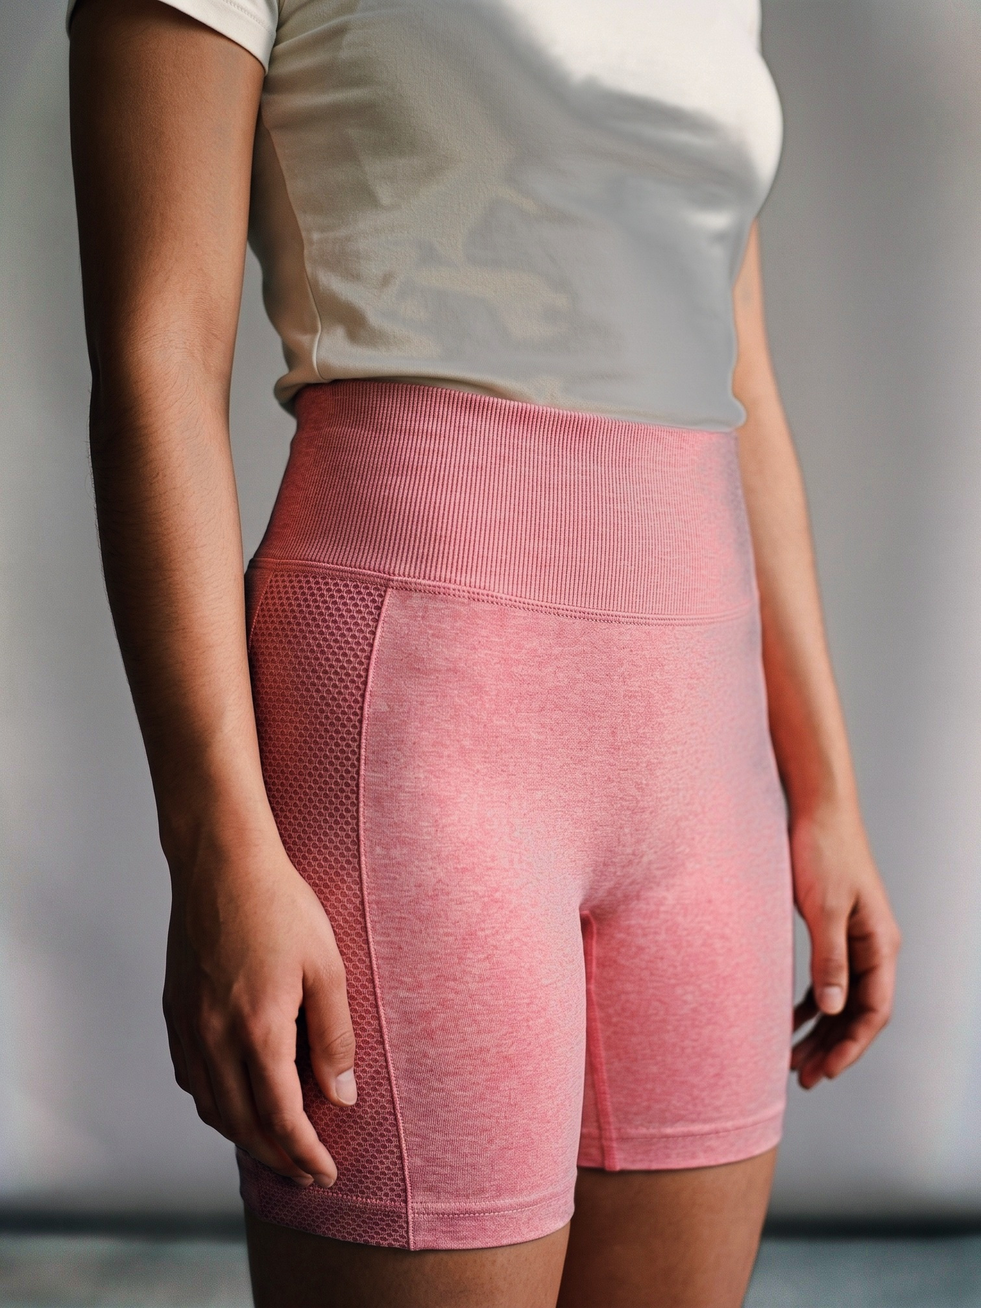
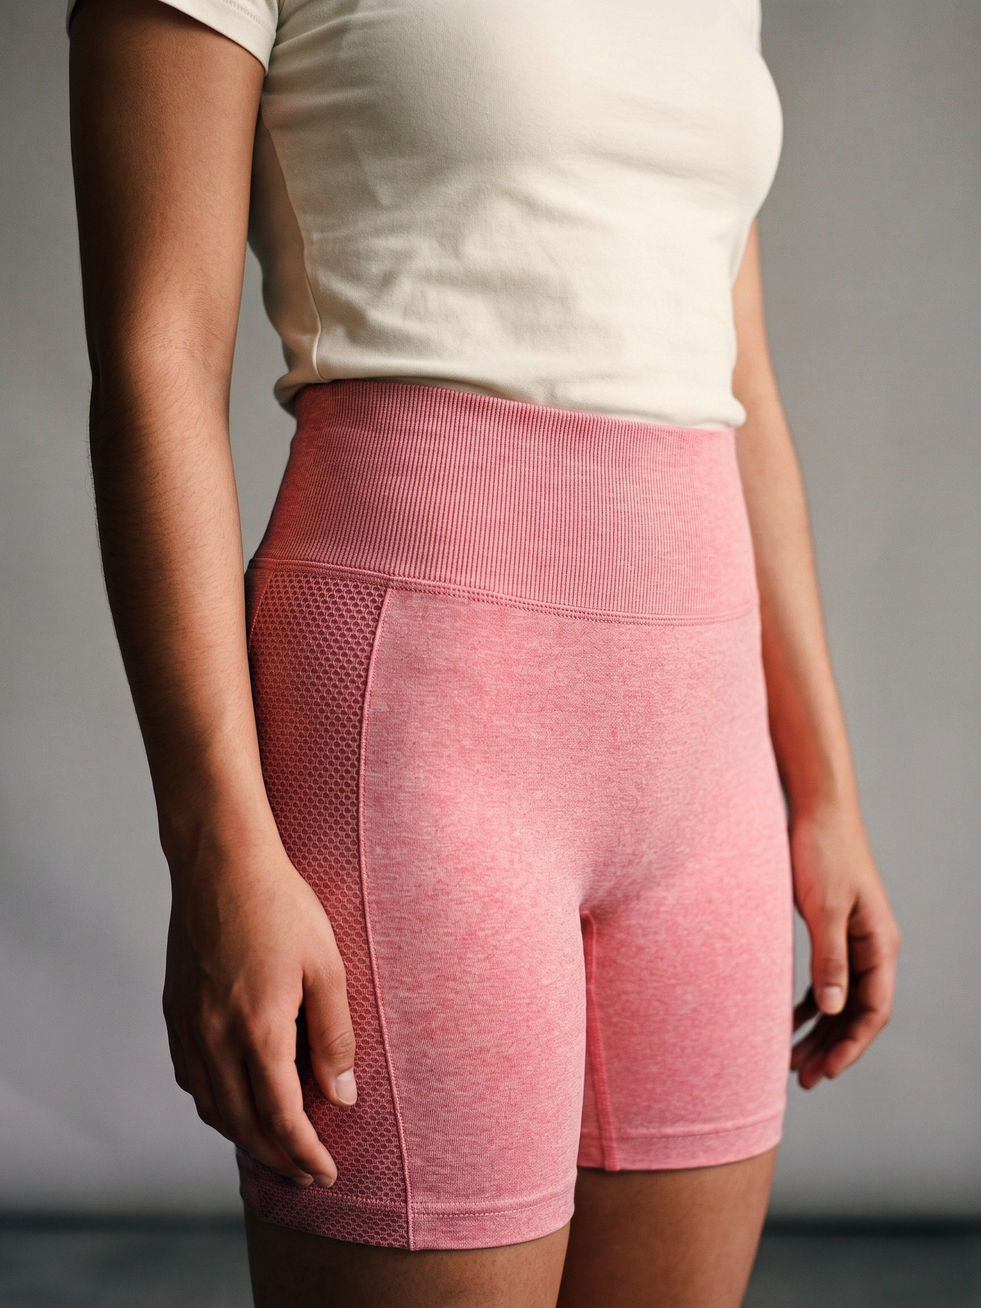
Fix root cause of the detail shot's tee ghosting + colour drift
Almontaser flagged the tee lighting on short-wine-detail.jpg. Root cause:
match_backdrop.py's tight-crop patch dict only recognised "tee-",
"loungeset-" and "legging-" filenames -- "short-" was never added when the
short SKU shipped. So short-*-detail.jpg (a hip/waistband crop with almost
no real floor in frame) fell through to the full floor-line detection path,
which mis-detected a floor around y=1865 and painted a smoothly-varying
backdrop-gain field across the whole frame -- including the tee, which read
as an odd soft blotchy sheen, and the garment, which came out visibly paler
than every other view. Same bug, same file, explains both complaints.

Fix: added "short-" to match_backdrop.py's tight-crop list and its patch
dict (a confirmed-clean backdrop swatch for this crop), then re-ran
short-wine-detail.jpg from its raw through the real pipeline (crop -> grade
-> backdrop-match) instead of patching the baked JPEG's pixels. Recomposited
short-blush-detail.jpg on top of the corrected wine base for the same
reason -- it had inherited the identical baked-in ghosting from its own
backdrop-match pass. Documented as RULES.md rule 13 so the next new
garment's -detail.jpg doesn't repeat this.

Superseded my own colourmatch.py-based patch for this file (kept for
short-wine-back.jpg, whose smaller drift is a separate, real per-shot
issue, not this bug). Cache-buster to v=51.

Claude-Session: https://claude.ai/code/session_01TH6XjwVeudERd93hT9p8gq

diff --git a/assets/products.js b/assets/products.js
@@ -8,9 +8,9 @@ window.COVERLINE_PRODUCTS = [
   {
     id: "tee",
     name: "The Long-Enough Tee",
-    tagline: "Stays down when you reach up.",
-    desc: "Actually long enough: it stays down when you reach for the top shelf, and covers the waistband of your leggings without riding up.",
-    longDesc: "The tee that ends the reach-up-and-tug-it-down routine. Cut longer through the body so it stays down when you lift your arms, and loose enough to layer over leggings or under a jacket without bunching at the waist. Most \"longline\" tees on the high street are cut for someone half a foot taller than you — this one's actually made to the length it says.",
+    tagline: "Long enough to stay down.",
+    desc: "A longline tee that covers the waistband of your leggings and stays there when you lift your arms. Loose fit, cut for shorter proportions.",
+    longDesc: "Cut longer through the body than a standard tee, so it stays down when you reach up, and loose enough to wear over leggings or under a jacket without bunching at the waist. Most longline tees are drafted for someone around 5'9\", which is why they end up cropped on you. This one is made to the length it says on a shorter frame.",
     fit: "Oversized by design — order your usual size for the intended relaxed fit, or size down for something closer to fitted.",
     priceLabel: "£15",
     price: 15,
@@ -29,9 +29,9 @@ window.COVERLINE_PRODUCTS = [
     id: "loungeset",
     soldOut: true, // 14 Sep 2026: pulled from sale pending re-sourcing — see coverline-product-accuracy-audit-2026-09-14.md
     name: "The Off-Duty Set",
-    tagline: "Dressed in one go.",
-    desc: "Boxy zip jacket and a jogger cut a touch shorter for petite frames — zip it up, pull them on, and you're done. No thinking required.",
-    longDesc: "A zip jacket and jogger that get you dressed in one move. The jacket is cut boxy and zips right up to the collar, so it works over a tee or on its own; the jogger has an elasticated waist and a full-length leg that sits on the shoe. It just happens to look like you put thought into it, even on the days you very much didn't.",
+    tagline: "Zip jacket and jogger, sold together.",
+    desc: "A boxy zip jacket and matching jogger. The jogger is cut a few centimetres shorter than a standard one, so it sits on the shoe rather than under it.",
+    longDesc: "A zip-up jacket and jogger you can wear together or split up. The jacket is boxy and zips to the collar, so it works over a tee or on its own. The jogger has an elasticated waist and a slightly shorter leg than standard (100 to 103cm outside leg depending on size), so it sits on the shoe instead of pooling on it.",
     fit: "Boxy through the jacket, elasticated waist on the jogger. Outside leg is 100–103cm depending on size — a touch shorter than a standard jogger, which suits a shorter frame; if you're tall for your size it will show ankle. Numbers in the chart below.",
     priceLabel: "£30",
     price: 30,
@@ -49,9 +49,9 @@ window.COVERLINE_PRODUCTS = [
   {
     id: "coord",
     name: "The Wide-Leg Set",
-    tagline: "Looks planned. Took four seconds.",
-    desc: "A relaxed short-sleeve shirt with contrast trim and a full-length wide-leg trouser, cut loose — brunch to dinner without a change. Petite? Cuff it. The cuff looks planned.",
-    longDesc: "A boxy, collared short-sleeve shirt with a deep V and a contrast band running the neckline, cuffs and hem, over a full-length wide-leg trouser with a matching stripe down each leg. Loose everywhere on purpose — the wide leg gives you room to sit, walk and get in a car without anything pulling. The V runs deep, so we wear ours over the Long-Enough Tee for daytime and on its own for evenings. Linen-look woven polyester: holds the drape, doesn't crease in your bag.",
+    tagline: "Shirt and wide-leg trouser set.",
+    desc: "A short-sleeve collared shirt with contrast trim and a matching wide-leg trouser. Loose all over. The trouser is full length, so if you're petite you'll want to cuff it or wear a heel.",
+    longDesc: "A boxy collared shirt with a deep V and contrast trim on the neckline, cuffs and hem, with a wide-leg trouser that has a matching stripe down each leg. It's loose everywhere, which is the point. The V is deep, so a tee underneath works for daytime. Linen-look woven polyester that holds its shape and doesn't crease much.",
     fit: "Loose through the top, wide through the leg, elasticated waist. The trouser is full length (105–107cm outside leg) — shorter frames will want a cuff or a heel, and the cuff looks intentional. The supplier's own UK conversion is in the chart below; trust it over your usual letter size.",
     priceLabel: "£30",
     price: 30,
@@ -69,9 +69,9 @@ window.COVERLINE_PRODUCTS = [
   {
     id: "legging",
     name: "The Squat-Proof Legging",
-    tagline: "Leggings you can bend over in.",
-    desc: "A thick seamless knit, soft enough to sleep in and covered enough to bend over in — the legging you don't second-guess before leaving the house.",
-    longDesc: "For the days you basically live in leggings — school run, gym, the floor at pickup, the sofa afterwards. High waistband that actually stays put when you sit, fabric thick enough that bending down in daylight isn't a whole calculation. If you've already bought the £12 pair twice, this is meant to be the one you don't have to replace.",
+    tagline: "Thick, high-waisted, stays up.",
+    desc: "A thick seamless knit with a high waistband that stays up when you sit. Runs small, so go one size up from your usual.",
+    longDesc: "For the days you live in leggings. The waistband is high and stays up when you sit, and the knit is thick enough that you don't need to think about it when you bend down. Soft enough to sleep in. It's the pair you keep instead of rebuying the cheap ones every few months.",
     fit: "Runs small — it's cut to Asian sizing, so go one up from your usual UK size (a UK 10–12 is an M, 12–14 an L). Only S to L exist in this one. Check the chart below before you pick.",
     priceLabel: "£18",
     price: 18,
@@ -89,9 +89,9 @@ window.COVERLINE_PRODUCTS = [
   {
     id: "short",
     name: "The Stay-Put Short",
-    tagline: "Shorts that stay where you put them.",
-    desc: "Seamless, high-waisted, cut longer than the usual gym short — covers the top of your thigh and stays put, so you're not pulling them back down between sets.",
-    longDesc: "Seamless, so there's no chafing and no lines showing through leggings underneath. Cut with a bit more length than the usual gym short, so squatting, lunging or sitting on the floor doesn't need a second hand to sort them out afterwards. At £14 they're an easy add if you're already checking out.",
+    tagline: "Seamless short, longer in the leg.",
+    desc: "Seamless and high-waisted, cut a bit longer in the leg than the average gym short so it stays put when you squat.",
+    longDesc: "Seamless, so there's no chafing and nothing shows through if you wear them under leggings. The leg is a bit longer than a typical gym short, so it doesn't ride up when you squat, lunge or sit on the floor. £14.",
     fit: "Runs small and sits high on the waist. Go one up from your usual UK size — a UK 8 is an M, a UK 10 an L, a UK 12 an XL. Chart below.",
     priceLabel: "£14",
     price: 14,
@@ -100,10 +100,10 @@ window.COVERLINE_PRODUCTS = [
     modelNote: "Shown in size S on our house model (5\'3\"). Product images are AI-generated; the size chart is the supplier\'s real garment measurements.",
     care: "Seamless stretch knit. Machine wash cold, hang or lay flat to dry. Skip the tumble dryer — it\'s what kills the stretch in every pair you\'ve owned before.",
     colors: [
-      { key: "maroon", label: "Wine", hex: "#946468", image: "/assets/product-images/short-wine.jpg?v=50", images: ["/assets/product-images/short-wine.jpg?v=50", "/assets/product-images/short-wine-back.jpg?v=50", "/assets/product-images/short-wine-detail.jpg?v=50"] },
-      { key: "pink", label: "Blush", hex: "#c59c9d", image: "/assets/product-images/short-blush.jpg?v=49", images: ["/assets/product-images/short-blush.jpg?v=49", "/assets/product-images/short-blush-back.jpg?v=49", "/assets/product-images/short-blush-detail.jpg?v=49"] }
+      { key: "maroon", label: "Wine", hex: "#946468", image: "/assets/product-images/short-wine.jpg?v=51", images: ["/assets/product-images/short-wine.jpg?v=51", "/assets/product-images/short-wine-back.jpg?v=51", "/assets/product-images/short-wine-detail.jpg?v=51"] },
+      { key: "pink", label: "Blush", hex: "#c59c9d", image: "/assets/product-images/short-blush.jpg?v=51", images: ["/assets/product-images/short-blush.jpg?v=51", "/assets/product-images/short-blush-back.jpg?v=51", "/assets/product-images/short-blush-detail.jpg?v=51"] }
     ],
-    image: "/assets/product-images/short-wine.jpg?v=50",
+    image: "/assets/product-images/short-wine.jpg?v=51",
     swatch: function(){ return '<rect width="300" height="400" fill="var(--paper-raised)"/><path d="M0,270 C 100,320 200,240 300,280 L300,400 L0,400 Z" fill="var(--accent-2)" opacity=".5"/><path d="M0,170 C 100,220 200,120 300,180" fill="none" stroke="var(--accent)" stroke-width="1"/>'; }
   }
 ];

diff --git a/index.html b/index.html
@@ -39,9 +39,9 @@
     </svg>
     <div class="wrap fade-in hero-inner" style="position:relative; z-index:1;">
       <div class="hero-copy">
-        <span class="label" style="display:block; margin-bottom:22px;">Everyday Basics, Cut Properly</span>
+        <span class="label" style="display:block; margin-bottom:22px;">Basics for petite frames</span>
         <h1 style="font-size:clamp(2.6rem,6.4vw,4.6rem); line-height:1.08; max-width:15ch; margin:0 auto;">Made for ease.<br>Worn without <em>thinking</em>.</h1>
-        <p style="max-width:38ch; margin:26px auto 0; color:var(--ink-soft); font-size:1.05rem;">Petite basics that cover what you want covered. Tops that don't need tugging back down, leggings you don't have to check in a mirror before you bend over.<span class="hero-more"> That's mostly it — cut a bit longer and a bit more forgiving, so you get dressed once and don't think about it again.</span></p>
+        <p style="max-width:38ch; margin:26px auto 0; color:var(--ink-soft); font-size:1.05rem;">Everyday basics cut for shorter frames. The tops are long enough to stay put when you lift your arms, and the leggings are thick enough that you don't need to check them in a mirror.<span class="hero-more"> Five pieces, two colours each, from £14.</span></p>
         <div class="hero-cta" style="margin-top:38px; display:inline-flex; flex-direction:column; align-items:center; gap:14px;">
           <a class="btn" href="#shop">Shop The Edit</a>
           <a class="link-quiet" href="#story">Our Story</a>
@@ -59,7 +59,7 @@
       <div class="shop-head">
         <span class="label">First Drop</span>
         <h2>The Edit</h2>
-        <p>Five pieces for petite frames, cut to cover, all from £14 in two colours each. Tap a colour to see it on her &mdash; same photo, just the colour changes. Images are AI-generated on our house models; the size charts are the real garment measurements.</p>
+        <p>Five pieces in two colours each. Tap a colour to see it on the model. The photos are AI-generated on our two house models, and the size charts are the supplier's real measurements, so check those before you order.</p>
       </div>
       <div class="shop-grid" id="shopGrid"></div>
     </div>
@@ -71,8 +71,8 @@
     <div class="wrap-narrow fade-in">
       <span class="label">Why we started</span>
       <p class="brand-line" style="margin:14px auto 0; max-width:30ch; text-align:center; font-family:'Fraunces',serif; font-style:italic; font-weight:440; font-size:clamp(1.5rem,3vw,2.05rem); line-height:1.4; color:var(--ink);">The kind of comfortable you forget you're wearing.</p>
-      <p style="margin-top:24px; color:var(--ink-soft); font-size:.95rem;">The top that's cute but two inches too short. The leggings you check in the mirror before you bend over. It was never you — it was cut for someone taller, then sold to everyone.</p>
-      <p style="margin-top:14px; color:var(--ink-soft); font-size:.95rem;">So we made the version we actually wanted: a little longer, a little more forgiving, finished like it cost more than it did. It's just easier to feel good in.</p>
+      <p style="margin-top:24px; color:var(--ink-soft); font-size:.95rem;">Most basics are cut for someone around 5'9" and then sold to everyone. If you're shorter, that's why the "cropped" top is cropped on you, why the leggings need a mirror check, and why you've been rolling up the same joggers since they arrived.</p>
+      <p style="margin-top:14px; color:var(--ink-soft); font-size:.95rem;">Coverline is the version we wanted to buy and couldn't find at a normal price. Cut a bit longer where it counts, a bit more forgiving everywhere else, and made properly. That's it.</p>
     </div>
   </section>
 
@@ -80,7 +80,7 @@
     <div class="wrap-narrow fade-in">
       <span class="label">Not Today?</span>
       <h2 style="margin-top:14px;">Hear about the next drop first.</h2>
-      <p>One email when something new lands — no countdowns, no "last chance" pressure. Unsubscribe whenever, no hard feelings.</p>
+      <p>We'll email you when something new comes in. That's the only email you'll get, and you can unsubscribe any time.</p>
       <form class="newsletter" id="newsletterForm">
         <input type="email" name="email" id="newsletterEmail" placeholder="your email" required aria-label="Email address">
         <button class="submit" type="submit">Join &rarr;</button>
@@ -102,7 +102,7 @@
   </div>
 </footer>
 
-<script src="/assets/products.js?v=50"></script>
+<script src="/assets/products.js?v=51"></script>
 <script src="/assets/config.js?v=4"></script>
 <script src="/assets/cart.js?v=10"></script>
 <script>
@@ -145,11 +145,11 @@
     return '' +
       '<div class="piece piece-edit">' +
         '<span class="label">The fit promise</span>' +
-        '<h3>Cut for how you actually move.</h3>' +
+        '<h3>What you're getting</h3>' +
         '<ul>' +
-          '<li><strong>Longer where it matters.</strong> Tees and sets that stay put when you reach, sit or bend.</li>' +
-          '<li><strong>Thick, not tissue.</strong> The legging and short are a dense seamless knit &mdash; the measurements on every size chart are the supplier\'s real numbers, not a guess.</li>' +
-          '<li><strong>Easy returns.</strong> Wrong size? Email us within 14 days — no need to post anything back.</li>' +
+          '<li><strong>Cut for shorter frames.</strong> The tees are longer in the body, the jogger is shorter in the leg.</li>' +
+          '<li><strong>Real measurements.</strong> Every size chart is the supplier\'s own numbers in centimetres, so you can check against something you already own.</li>' +
+          '<li><strong>Returns.</strong> Wrong size? Email us within 14 days and we sort it. You don\'t post anything back.</li>' +
         '</ul>' +
         '<a class="link-quiet" href="#story">Why we started &rarr;</a>' +
       '</div>';

diff --git a/product.html b/product.html
@@ -75,7 +75,7 @@
   </div>
 </footer>
 
-<script src="/assets/products.js?v=50"></script>
+<script src="/assets/products.js?v=51"></script>
 <script src="/assets/sizecharts.js?v=2"></script>
 <script src="/assets/reviews.js?v=1"></script>
 <script src="/assets/config.js?v=4"></script>
@@ -211,7 +211,7 @@
         accItem('Fit &amp; sizing', '<p>' + p.fit + '</p>') +
         (sizeChartHtml() ? accItem('Size chart', sizeChartHtml()) : '') +
         accItem('Fabric &amp; care', '<p>' + (p.care || 'Machine wash cold, hang or lay flat to dry. Skip the tumble dryer.') + '</p>') +
-        accItem('Shipping', '<p>UK delivery usually takes 5&ndash;10 working days. It ships tracked, straight from our supplier, which is further away than the high street &mdash; and it\'s priced like it. We\'d rather say that now than promise next-day and miss it. You\'ll get a tracking link by email once it\'s on the way.</p><p><a href="/shipping-returns.html" class="link-quiet">Full shipping &amp; returns policy &rarr;</a></p>') +
+        accItem('Shipping', '<p>UK delivery usually takes 5&ndash;10 working days. It ships tracked, straight from our supplier, which is further away than the high street &mdash; and it\'s priced like it. You\'ll get a tracking link by email once it\'s on the way.</p><p><a href="/shipping-returns.html" class="link-quiet">Full shipping &amp; returns policy &rarr;</a></p>') +
         accItem('Returns', '<p>Wrong size, damaged, or not what you ordered? Email us within 14 days of delivery and we\'ll send a replacement or refund you &mdash; you never have to post anything back. Full detail in our <a href="/shipping-returns.html">returns policy</a>.</p>') +
       '</div>';
 
@@ -311,7 +311,7 @@
     var sec = document.getElementById('pdpReviews');
     sec.hidden = false;
     if(!mine.length){
-      document.getElementById('reviewsList').innerHTML = '<p class="reviews-empty">First drop, so nothing here yet. If you\'ve bought one, the link in your delivery email lets you tell the next person what height you are and where the hem hit &mdash; that\'s the useful bit.</p>';
+      document.getElementById('reviewsList').innerHTML = '<p class="reviews-empty">This is our first drop, so there are no reviews yet. If you\'ve bought one, the link in your delivery email lets you leave one. Your height and the size you took are the most useful things to include.</p>';
       return;
     }
     document.getElementById('reviewsList').innerHTML = mine.map(function(r){

diff --git a/review.html b/review.html
@@ -74,7 +74,7 @@
   </div>
 </footer>
 
-<script src="/assets/products.js?v=50"></script>
+<script src="/assets/products.js?v=51"></script>
 <script src="/assets/config.js?v=4"></script>
 <script src="/assets/cart.js?v=10"></script>
 <script>

diff --git a/404.html b/404.html
@@ -46,7 +46,7 @@
   </div>
 </footer>
 
-<script src="/assets/products.js?v=50"></script>
+<script src="/assets/products.js?v=51"></script>
 <script src="/assets/config.js?v=4"></script>
 <script src="/assets/cart.js?v=10"></script>
 </body>

diff --git a/privacy.html b/privacy.html
@@ -85,7 +85,7 @@
   </div>
 </footer>
 
-<script src="/assets/products.js?v=50"></script>
+<script src="/assets/products.js?v=51"></script>
 <script src="/assets/config.js?v=4"></script>
 <script src="/assets/cart.js?v=10"></script>
 </body>

diff --git a/shipping-returns.html b/shipping-returns.html
@@ -78,7 +78,7 @@
   </div>
 </footer>
 
-<script src="/assets/products.js?v=50"></script>
+<script src="/assets/products.js?v=51"></script>
 <script src="/assets/config.js?v=4"></script>
 <script src="/assets/cart.js?v=10"></script>
 </body>

diff --git a/terms.html b/terms.html
@@ -92,7 +92,7 @@
   </div>
 </footer>
 
-<script src="/assets/products.js?v=50"></script>
+<script src="/assets/products.js?v=51"></script>
 <script src="/assets/config.js?v=4"></script>
 <script src="/assets/cart.js?v=10"></script>
 </body>

diff --git a/tools/imagery/match_backdrop.py b/tools/imagery/match_backdrop.py
@@ -80,12 +80,12 @@ def main():
             Fl,fy=fit_field(L)
             F=np.stack([fit_field(out[...,c],fy)[0] for c in range(3)],-1) if fy>=0 else Fl
             # tight crops (torso / legs fill the frame) have no clean border: the edge strips are garment
-            tight=p.endswith("-detail.jpg") and any(k in p for k in ("tee-","loungeset-","legging-"))
+            tight=p.endswith("-detail.jpg") and any(k in p for k in ("tee-","loungeset-","legging-","short-"))
             if fy<0 or tight:
                 # no clean border to fit a field on. Use a hand-picked pure-backdrop patch per crop type
                 # (fractions of w,h: x0,x1,y0,y1) and a single global gain so the patch matches the reference's
                 # top-strip level. Keeps the close-up in the same room as the full-body shots.
-                patch={"tee-":(0.0,0.12,0.0,0.30),"loungeset-":(0.0,0.10,0.0,0.25),"legging-":(0.88,1.0,0.0,0.30)}
+                patch={"tee-":(0.0,0.12,0.0,0.30),"loungeset-":(0.0,0.10,0.0,0.25),"legging-":(0.88,1.0,0.0,0.30),"short-":(0.90,1.0,0.0,0.25)}
                 key=next((k for k in patch if k in p),None)
                 if key:
                     x0,x1,y0,y1=patch[key]; own=out[int(h*y0):int(h*y1), int(w*x0):int(w*x1)].reshape(-1,3).mean(0)

diff --git a/tools/imagery/RULES.md b/tools/imagery/RULES.md
@@ -87,3 +87,5 @@ This file lives in the repo so no session can build a pipeline without it. The p
 
 11. **A colourway compositor built for a black base garment does not generalize to a colour one — `composite.py` is the only supported compositor now.** (14 Sep, found while shipping the short's Wine/Blush colourways.) `colourway_from_edit.py` derives its garment mask from "dark & colour-neutral" pixels on the base — that only works when the base garment is black (R≈G≈B). Point it at a wine/burgundy base and the mask barely catches the garment (wine has high R-B, it isn't "neutral"), producing either a barely-recoloured image or a jagged partial patchwork depending on the pose crop. `composite.py` (in this same folder) replaced it in the actual pipeline back on 13 Sep — it needs no garment segmentation at all, just a soft change-mask between base and edit plus an exposure fit, so it works for any garment colour. The old file was left in the repo and it's easy to reach for by name; don't use it. Always run colourway compositing through `composite.py`, or via `finish_batch.py`'s own composite step on a job file where each colourway item has a `base` field pointing at the wine (or other primary) raw file — and make sure the `base`'s basename-minus-`-raw.jpg` matches the finished id of that base item exactly, or the auto-composite step silently no-ops with "COMPOSITE SKIPPED (no base found)".
 12. **`composite.py`'s drift check can false-positive on a tight detail crop of the RAW image — recheck after `finish_batch.py`'s crop + backdrop-match, not before.** (14 Sep.) The drift heuristic samples the leftmost/rightmost 6% of the frame as "backdrop" to catch a figure that moved between base and edit. In a close hip/waistband detail shot there may be little or no real backdrop in that strip (it's mostly skin/garment), so a correct composite can get flagged `<-- DRIFTED` on the raw pair. Finish (crop+grade+backdrop-match) first, then re-run `composite.py` on the finished pair before trusting the flag — the false positive cleared entirely once backdrop-matching normalised the frame in this case (ghost dropped from 2.6% to 0.75%).
+
+13. **`match_backdrop.py`'s tight-crop patch dict is a hardcoded prefix list — a new garment's "-detail.jpg" falls through to the full floor-fit path and can wreck it.** (14 Sep, found on `short-wine-detail.jpg`/`short-blush-detail.jpg`.) The `tight` check only recognised filenames containing `tee-`, `loungeset-`, or `legging-`; `short-` was never added when the short SKU shipped. So `short-*-detail.jpg` (a hip/waistband crop with almost no real floor in frame) fell through to `fit_field`'s floor-line detection, which mis-detected a floor around y≈1865 in a crop that has none, then applied a smoothly-varying 2D backdrop-gain field across the whole frame — including the tee and garment, which got misclassified as "backdrop-like" by the per-pixel distance test. The result: a soft, cloud-shaped brightness pattern baked into the tee (looked like a glossy/latex sheen with a faint ghosted shape) and a visibly paler, greyer garment colour than every other view of the same colourway. Symptom to watch for: a tight `-detail.jpg` crop that reads paler/greyer than its own hero shot, or a plain tee with an odd soft blotchy sheen — check whether its prefix is in `match_backdrop.py`'s `patch` dict before assuming it's a Gemini rendering issue. Fix: add the new garment's filename prefix to BOTH the `tight` tuple and the `patch` dict (fractions of a clean backdrop patch actually visible in that crop — sampled and confirmed low-saturation/low-std before trusting it). Whenever a new garment's `-detail.jpg` is added to the pipeline, add its prefix to `match_backdrop.py` in the same commit — don't wait to notice it in review. Re-finishing from the `-raw.jpg` (crop → grade → backdrop-match) after the dict fix is the correct repair; patching the already-baked JPEG's pixels (colour-matching, deglare) is a workaround, not a fix, and won't be right pixel-for-pixel.
